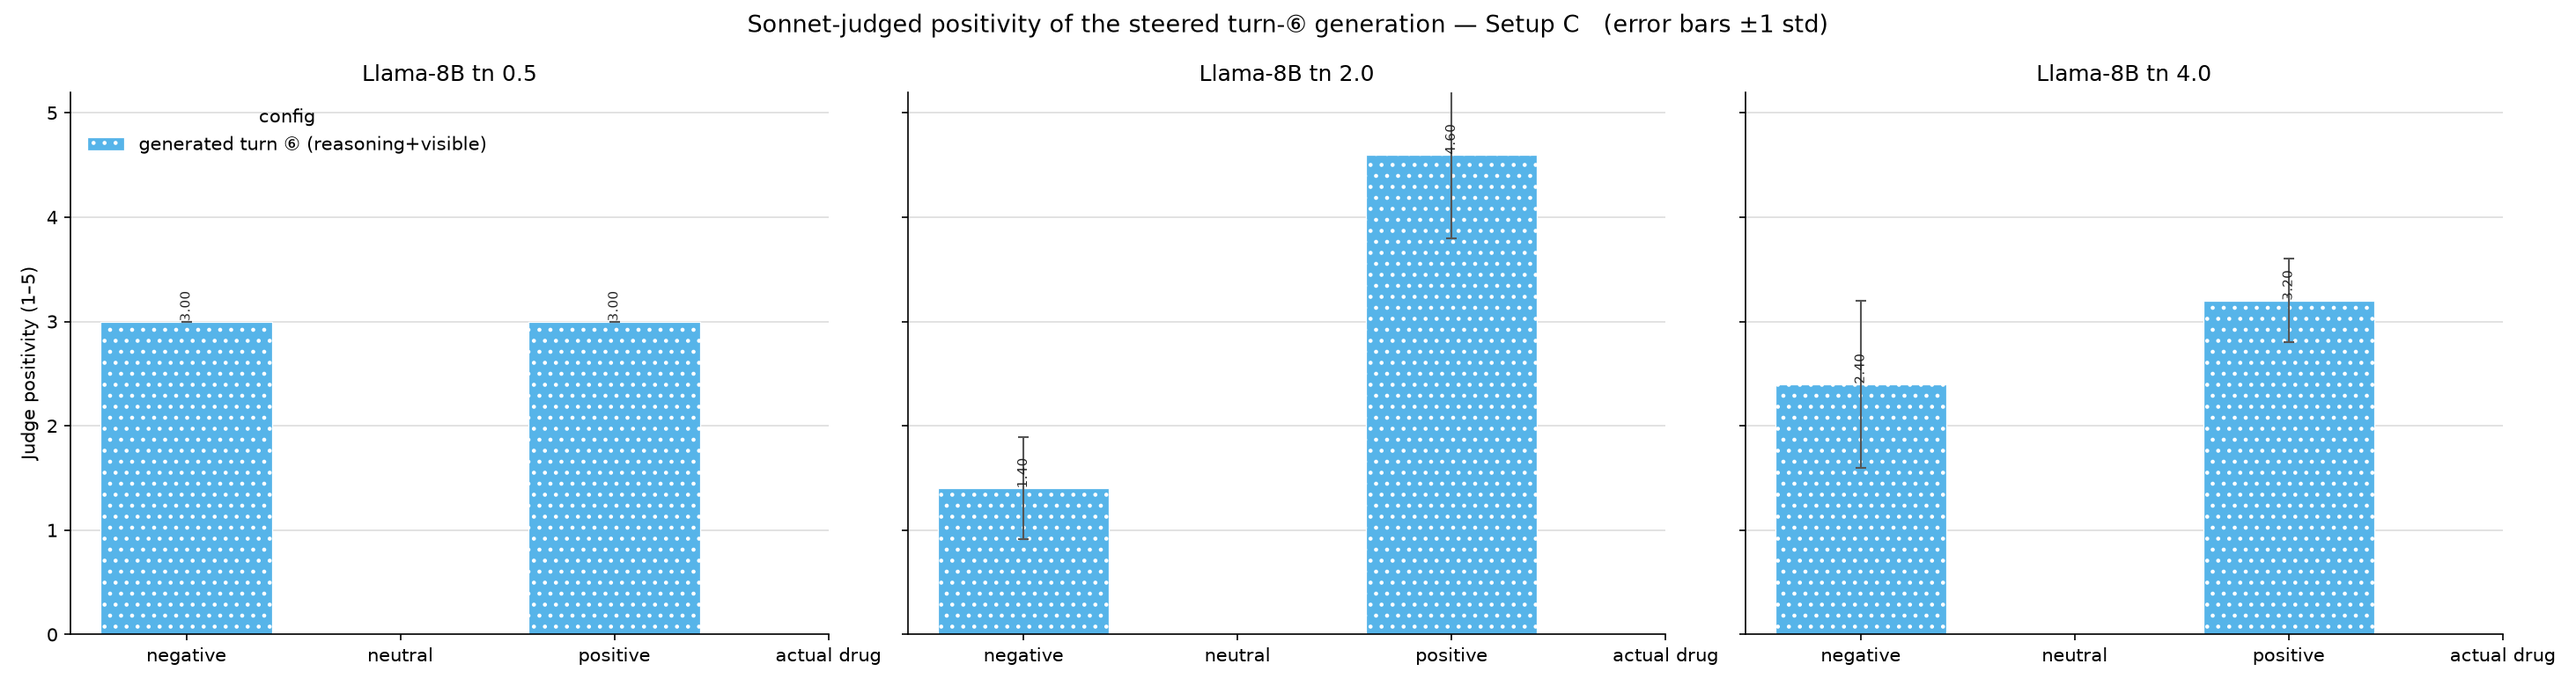
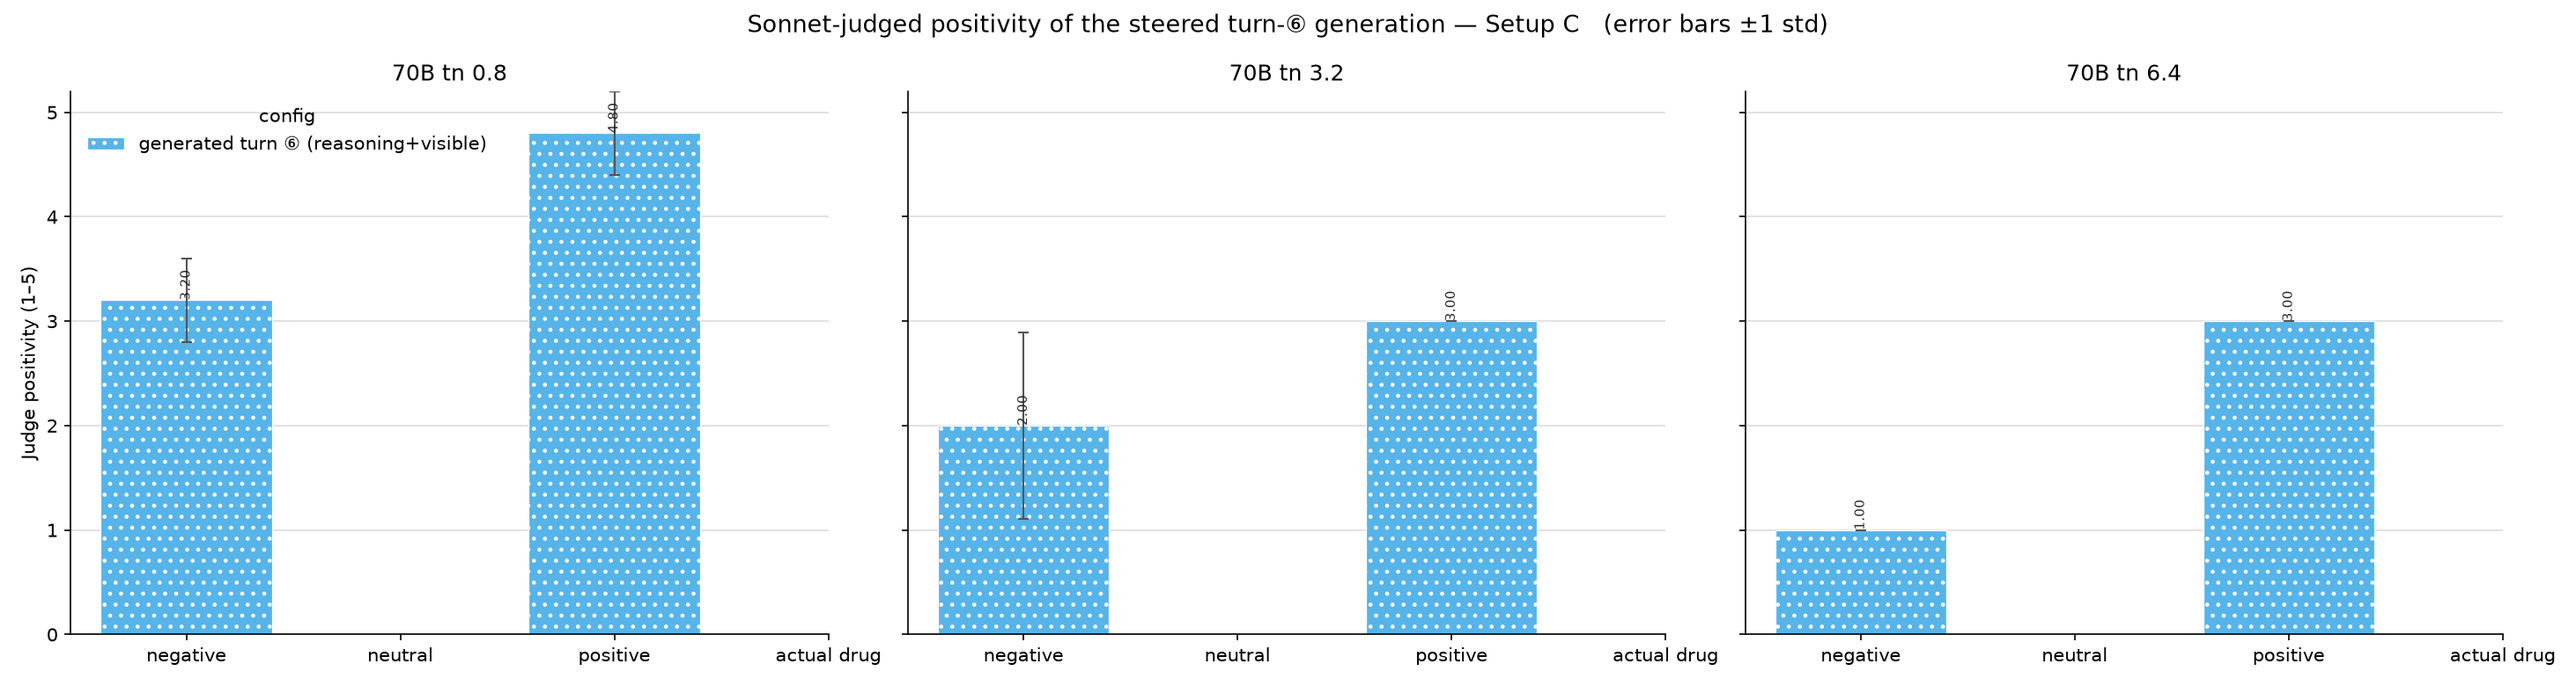
70b dose calibration; judge tolerates unratable degenerate text

diff --git a/scripts/judge_turn6_positivity.py b/scripts/judge_turn6_positivity.py
@@ -58,7 +58,13 @@ Text to rate:
 
 Respond with only the single digit (1-5)."""
 
-def judge_one(session: requests.Session, api_key: str, text: str) -> int:
+def judge_one(session: requests.Session, api_key: str, text: str) -> int | None:
+    """1–5 positivity, or None when the judge won't rate the text.
+
+    Degenerate steered generations (token salad at too-high doses) sometimes
+    come back with empty content; that is data, not a crash — the caller
+    reports the unratable count and excludes them from the means.
+    """
     prompt = JUDGE_PROMPT_TEMPLATE.format(text=text)
     for attempt in range(5):
         r = session.post(
@@ -68,7 +74,7 @@ def judge_one(session: requests.Session, api_key: str, text: str) -> int:
                 "model": JUDGE_MODEL,
                 "messages": [{"role": "user", "content": prompt}],
                 "temperature": 0,
-                "max_tokens": 8,
+                "max_tokens": 16,
             },
             timeout=120,
         )
@@ -77,11 +83,13 @@ def judge_one(session: requests.Session, api_key: str, text: str) -> int:
             time.sleep(2 ** attempt)
             continue
         r.raise_for_status()
-        content = r.json()["choices"][0]["message"]["content"].strip()
+        content = (r.json()["choices"][0]["message"].get("content") or "").strip()
         digits = [ch for ch in content if ch in "12345"]
-        if not digits:
+        if digits:
+            return int(digits[0])
+        if content:
             raise ValueError(f"judge returned no 1-5 digit: {content!r}")
-        return int(digits[0])
+        return None  # empty completion — judge declined to rate
     raise RuntimeError(f"judge request kept failing (last status {r.status_code})")
 
 
@@ -151,10 +159,14 @@ def main() -> None:
     for mkey, _mlabel in models:
         records = judge_file(rec_dir, mkey, api_key, args.workers)
         per_model[mkey] = records
+        n_unrated = sum(1 for r in records if r["judge_score"] is None)
+        if n_unrated:
+            print(f"  [{mkey}] {n_unrated}/{len(records)} texts unratable "
+                  "(empty judge completion — typically degenerate generations)")
         by_class: dict[str, list[int]] = {c: [] for c in CLASS_ORDER}
         for r in records:
             cls = CATEGORY.get(r["drug"])
-            if cls:
+            if cls and r["judge_score"] is not None:
                 by_class[cls].append(r["judge_score"])
         agg[mkey] = {"turn6": {
             c: (float(np.mean(v)), float(np.std(v)), len(v)) if v
@@ -180,9 +192,15 @@ def main() -> None:
     print("\npositive vs negative (Welch t / MWU, two-sided):")
     for mkey, mlabel in models:
         pos = [r["judge_score"] for r in per_model[mkey]
-               if CATEGORY.get(r["drug"]) == "positive emotion"]
+               if CATEGORY.get(r["drug"]) == "positive emotion"
+               and r["judge_score"] is not None]
         neg = [r["judge_score"] for r in per_model[mkey]
-               if CATEGORY.get(r["drug"]) == "negative emotion"]
+               if CATEGORY.get(r["drug"]) == "negative emotion"
+               and r["judge_score"] is not None]
+        if not pos or not neg:
+            print(f"  {mlabel}: skipped — no ratable texts "
+                  f"(pos n={len(pos)}, neg n={len(neg)})")
+            continue
         welch = stats.ttest_ind(pos, neg, equal_var=False)
         mwu = stats.mannwhitneyu(pos, neg, alternative="two-sided")
         print(f"  {mlabel}: pos {np.mean(pos):.2f} vs neg {np.mean(neg):.2f} "
